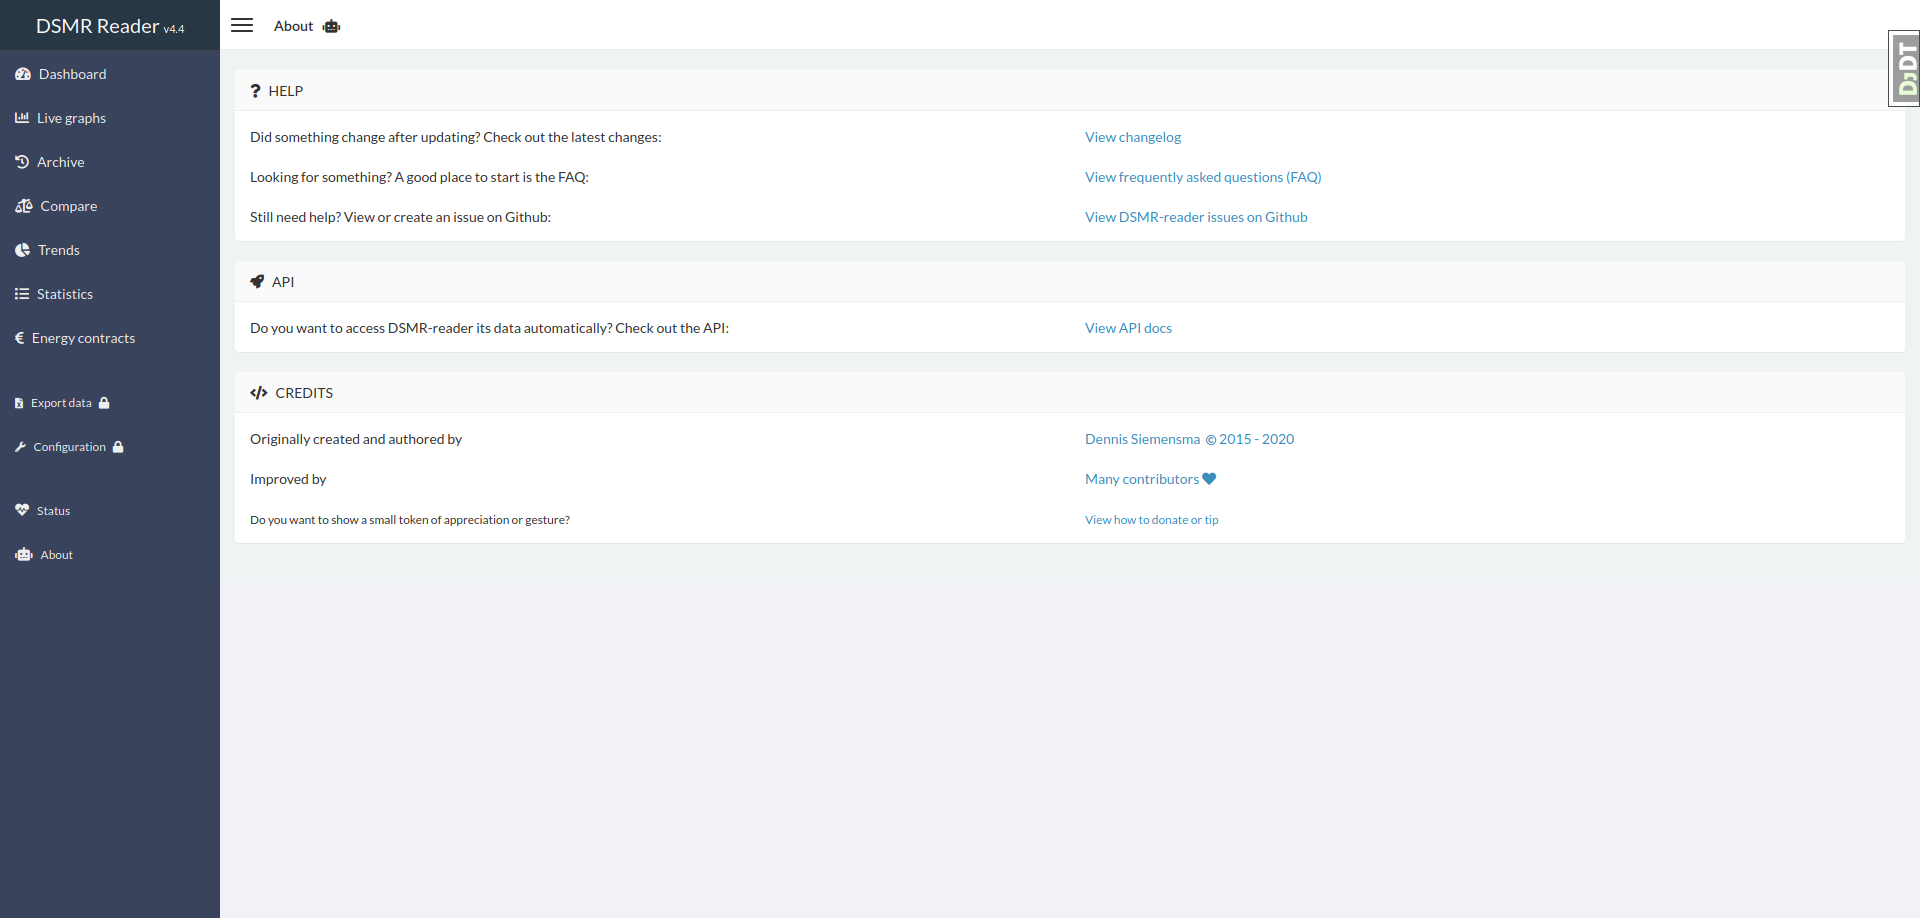
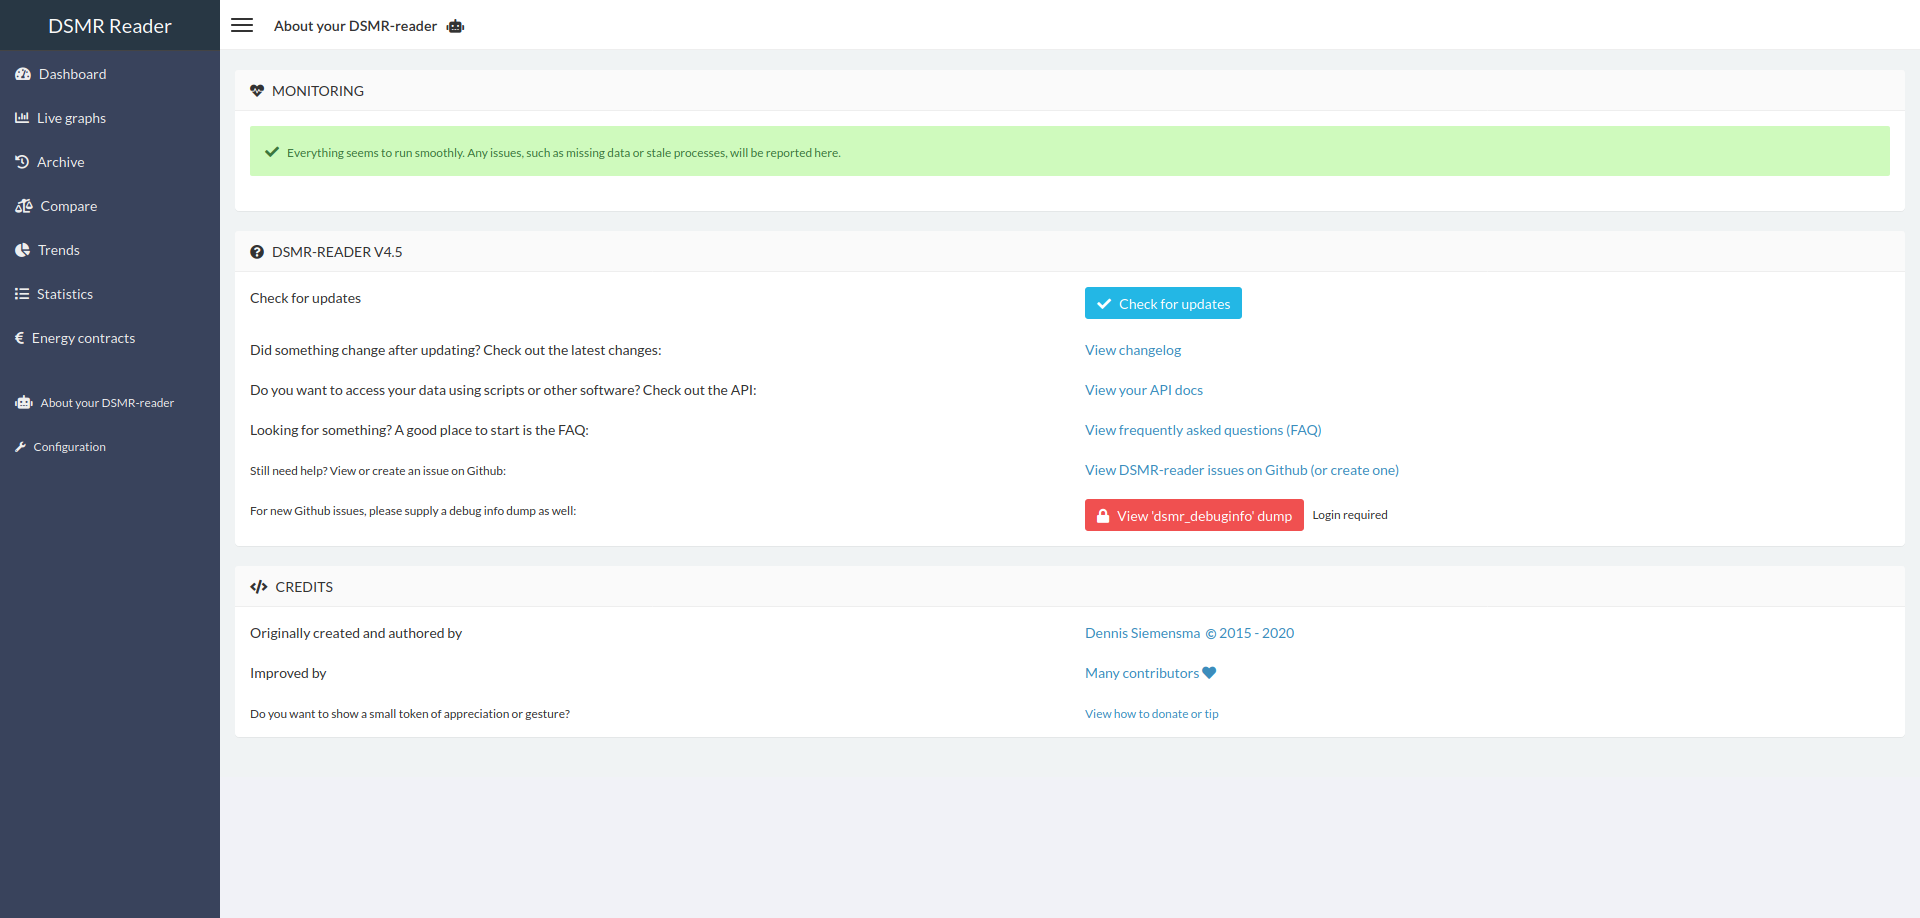
Status-pagina samenvoegen met About #1125

diff --git a/dsmr_frontend/templates/dsmr_frontend/about.html b/dsmr_frontend/templates/dsmr_frontend/about.html
@@ -3,30 +3,50 @@
 {% load static %}
 {% load i18n %}
 
-{% block title %}{% translate "About your DSMR-reader" %}{% endblock %}
-{% block header %}{% translate "About your DSMR-reader" %} &nbsp; <i class="fas fa-robot"></i>{% endblock %}
+{% block title %}{% translate "About &amp; support" %}{% endblock %}
+{% block header %}{% translate "About &amp; support" %} &nbsp; <i class="fas fa-robot"></i>{% endblock %}
 
 {% block content %}
 <!-- Main content -->
 <section class="content">
+
     <div class="row">
         <div class="col-sm-12">
             <div class="panel">
                 <header class="panel-heading">
-                    <i class="fas fa-heartbeat"></i> &nbsp; {% translate "Monitoring" %} &nbsp;
-                    {% if monitoring_issues %}<span class="badge bg-red-gradient">{{ monitoring_issues|length }}</span>{% endif %}
-                    <br />
+                    <i class="fas fa-question"></i> &nbsp; {% translate "About" %}
                 </header>
                 <div class="panel-body">
+                    <div class="row">
+                        <div class="col-sm-6">
+                            {% translate "Currently installed" %}: <strong>DSMR-reader v{{ dsmr_version }}</strong>
+                        </div>
+                        <div class="col-sm-6">
+                            <a class="btn btn-info trigger-update-check" href="#">{% translate "Check for updates" %}</a>
+                            <i class="fas fa-spinner fa-pulse fa-fw xhr-loader hidden update-check"></i>
+
+                            <div id="update_check_no_update_available" class="xhr-hidden">
+                                <div class="alert alert-without-padding alert-success" role="alert">
+                                    <i class="fas fa-check-circle"></i> &nbsp; {% translate "You are running the latest version" %}
+                                </div>
+                            </div>
+                            <div id="update_check_update_available" class="xhr-hidden">
+                                <div class="alert alert-without-padding alert-warning" role="alert">
+                                    <i class="fas fa-exclamation-circle"></i> &nbsp; {% translate "Update available" %} &nbsp; <a href="{% url 'frontend:changelog-redirect' %}" target="_blank"><i class="fas fa-external-link-alt"></i></a>
+                                </div>
+                            </div>
+                        </div>
+                    </div>
+                    <div class="row">&nbsp;</div>
                     {% for current in monitoring_issues %}
                         <div class="row">
-                            <div class="col-sm-6">
-                                <i class="fas fa-exclamation-triangle"></i> &nbsp; <strong>{{ current.description }}</strong>
-                            </div>
-                            <div class="col-sm-6">
+                            <div class="col-sm-12">
                                 <div class="alert alert-without-padding alert-danger" role="alert">
-                                    <small>{% translate "Since" %}: <strong>{{ current.since|naturaltime|default:'-' }}</strong></small>
+                                    <i class="fas fa-exclamation-triangle"></i> &nbsp; <strong>{{ current.description }}</strong>
+                                    &nbsp;
+                                    <small>({% translate "Since" %}: <strong>{{ current.since|naturaltime|default:'-' }}</strong>)</small>
                                 </div>
+
                             </div>
                         </div>
                     {% empty %}
@@ -47,27 +67,15 @@
         <div class="col-sm-12">
             <div class="panel">
                 <header class="panel-heading">
-                    <i class="fas fa-question-circle"></i> &nbsp; DSMR-reader v{{ dsmr_version }}
+                    <i class="fas fa-bullhorn"></i> &nbsp; {% translate "Support" %}
                 </header>
                 <div class="panel-body">
                     <div class="row">
                         <div class="col-sm-6">
-                            {% translate "Check for updates" %}
+                            {% translate "Looking for something specific? A good place to start might be the FAQ" %}:
                         </div>
                         <div class="col-sm-6">
-                            <a class="btn btn-info trigger-update-check" href="#"><i class="fas fa-check"></i> &nbsp; {% translate "Check for updates" %}</a>
-                            <i class="fas fa-spinner fa-pulse fa-fw xhr-loader hidden update-check"></i>
-
-                            <div id="update_check_no_update_available" class="xhr-hidden">
-                                <div class="alert alert-without-padding alert-success" role="alert">
-                                    <i class="fas fa-check-circle"></i> &nbsp; {% translate "You are running the latest version" %} (v{{ dsmr_version }})
-                                </div>
-                            </div>
-                            <div id="update_check_update_available" class="xhr-hidden">
-                                <div class="alert alert-without-padding alert-warning" role="alert">
-                                    <i class="fas fa-exclamation-circle"></i> &nbsp; {% translate "Update available" %} &nbsp; <a href="{% url 'frontend:changelog-redirect' %}" target="_blank"><i class="fas fa-external-link-alt"></i></a>
-                                </div>
-                            </div>
+                            <a href="{% url 'frontend:docs-redirect' %}" target="_blank">{% translate "View frequently asked questions (FAQ)" %} </a>
                         </div>
                     </div>
                     <div class="row">&nbsp;</div>
@@ -82,27 +90,7 @@
                     <div class="row">&nbsp;</div>
                     <div class="row">
                         <div class="col-sm-6">
-                            {% translate "Do you want to access your data using scripts or other software? Check out the API:" %}
-                        </div>
-
-                        <div class="col-sm-6">
-                            <a href="{% url 'frontend:redoc-api-docs' %}" target="_blank">{% translate "View your API docs" %}</a>
-                        </div>
-                    </div>
-
-                    <div class="row">&nbsp;</div>
-                    <div class="row">
-                        <div class="col-sm-6">
-                            {% translate "Looking for something? A good place to start is the FAQ" %}:
-                        </div>
-                        <div class="col-sm-6">
-                            <a href="{% url 'frontend:docs-redirect' %}" target="_blank">{% translate "View frequently asked questions (FAQ)" %} </a>
-                        </div>
-                    </div>
-                    <div class="row">&nbsp;</div>
-                    <div class="row">
-                        <div class="col-sm-6">
-                            <small>{% translate "Still need help? View or create an issue on Github" %}:</small>
+                            <small>{% translate "Still need troubleshooting? Check out current issues on Github" %}:</small>
                         </div>
                         <div class="col-sm-6">
                             <a href="https://github.com/dennissiemensma/dsmr-reader/issues" target="_blank">{% translate "View DSMR-reader issues on Github (or create one)" %} </a>
@@ -115,9 +103,9 @@
                         </div>
                         <div class="col-sm-6">
                             {% if user.is_authenticated %}
-                            <a class="btn btn-info trigger-debug-info" href="#"><i class="fas fa-eye"></i> &nbsp; {% translate "View 'dsmr_debuginfo' dump" %}</a>
+                            <a class="btn btn-info trigger-debug-info" href="#">{% translate "View 'dsmr_debuginfo' dump" %}</a>
                             {% else %}
-                            <a class="btn btn-danger" href="{% url 'admin:login' %}?next={% url 'frontend:about' %}"><i class="fas fa-lock"></i> &nbsp; {% translate "View 'dsmr_debuginfo' dump" %}</a> &nbsp; <small>{% translate "Login required" %}</small>
+                            <a class="btn btn-danger" href="{% url 'admin:login' %}?next={% url 'frontend:about' %}">{% translate "View 'dsmr_debuginfo' dump" %}</a> &nbsp; <small><i class="fas fa-lock"></i> &nbsp; {% translate "Login required" %}</small>
                             {% endif %}
                             <i class="fas fa-spinner fa-pulse fa-fw xhr-loader hidden debug-info"></i>
                         </div>
@@ -125,6 +113,16 @@
                     <div class="row debug-info xhr-hidden">
                         <div class="col-sm-12">
                             <pre id="debug_info_result"></pre>
+                        </div>
+                    </div>
+                    <div class="row">&nbsp;</div>
+                    <div class="row">
+                        <div class="col-sm-6">
+                            {% translate "Do you want to access your data using scripts or other software? Check out the API:" %}
+                        </div>
+
+                        <div class="col-sm-6">
+                            <a href="{% url 'frontend:redoc-api-docs' %}" target="_blank">{% translate "View API docs" %}</a>
                         </div>
                     </div>
                 </div>

diff --git a/dsmr_frontend/templates/dsmr_frontend/base.html b/dsmr_frontend/templates/dsmr_frontend/base.html
@@ -103,7 +103,7 @@
                         </li>
                         <li>
                             <a href="{% url 'frontend:about' %}">
-                                <i class="fas fa-robot"></i> &nbsp; <small>{% translate "About your DSMR-reader" %}</small>
+                                <i class="fas fa-robot"></i> &nbsp; <small>{% translate "About &amp; support" %}</small>
                             </a>
                         </li>
                         <li>

diff --git a/docs/changelog.rst b/docs/changelog.rst
@@ -21,6 +21,8 @@ v4.5.0 - 2020-xx-xx
 - ``Added``: Migratiestatus toevoegen aan dsmr-debuginfo [`#1130 <https://github.com/dennissiemensma/dsmr-reader/issues/1130>`_]
 - ``Added``: Check op exit code migrate command bij deploy/update [`#1127 <https://github.com/dennissiemensma/dsmr-reader/issues/1127>`_]
 
+- ``Changed``: Versie-check toevoegen aan About [`#1125 <https://github.com/dennissiemensma/dsmr-reader/issues/1125>`_]
+- ``Changed``: Status-pagina samenvoegen met About [`#1125 <https://github.com/dennissiemensma/dsmr-reader/issues/1125>`_]
 - ``Changed``: Default color update for high tariff [`#1142 <https://github.com/dennissiemensma/dsmr-reader/issues/1142>`_]
 - ``Changed``: Move export menu item to configuration page [`#1143 <https://github.com/dennissiemensma/dsmr-reader/issues/1143>`_]
 - ``Changed``: Mogelijkheid voor negatieve waarde in Fixed daily cost [`#1148 <https://github.com/dennissiemensma/dsmr-reader/issues/1148>`_]
